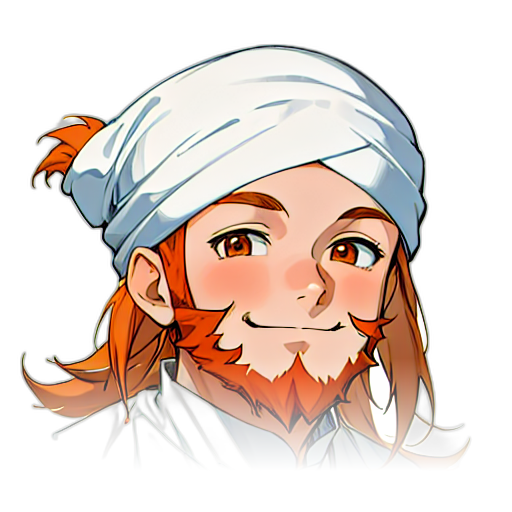
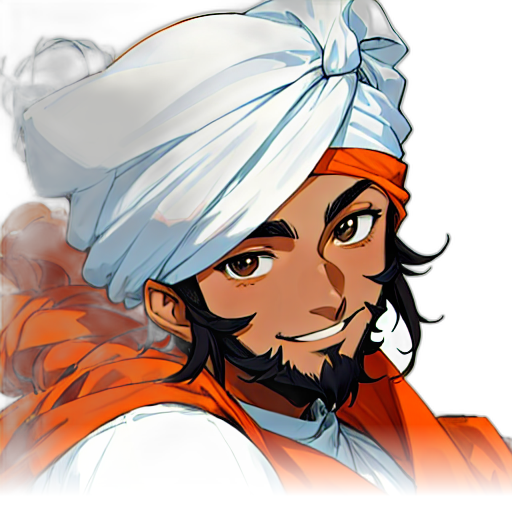
art: Phase 58 Round 3 - portrait 구도 통일 재생성
- BASE_POS에 close-up bust portrait + centered composition 추가
- yuki 줌인 방지: medium length hair, very long hair 네거티브
- lao 남성 강화: 1boy:1.5 + masculine face + female 네거티브
- poco 얼굴 크기 개선: face fills upper frame
- 하단 그라디언트 83~97%로 하향 (얼굴 침범 방지)
- img2img 제거 (색상 번짐 문제)

diff --git a/tools/gen_portraits.py b/tools/gen_portraits.py
@@ -1,38 +1,58 @@
 """
-portrait 6종 일괄 생성 스크립트
+portrait 생성 스크립트 - Phase 58
 SD Forge Counterfeit V3 / 메이지 스타일 통일
+img2img 모드: 미미 구도를 레퍼런스로 사용하여 얼굴 크기/비율 통일
 """
-import requests, json, base64, io, sys
-from PIL import Image
+import requests, base64, io, sys
+from PIL import Image, ImageDraw, ImageChops
 
-SD_API = "http://192.168.219.100:7860/sdapi/v1/txt2img"
-OUT_DIR = "C:/antigravity/kitchen-chaos/assets/portraits"
+SD_TXT2IMG = "http://192.168.219.100:7860/sdapi/v1/txt2img"
+SD_IMG2IMG  = "http://192.168.219.100:7860/sdapi/v1/img2img"
+OUT_DIR     = "C:/antigravity/kitchen-chaos/assets/portraits"
 
-BASE_POS = "(masterpiece, best quality, official art), cute chibi anime style, bust portrait, white background, simple background, soft anime shading, big round eyes, detailed cute face, clean lineart, 2d illustration, smile"
-BASE_NEG = "nsfw, bad quality, worst quality, low quality, blurry, realistic, 3d, photo, dark background, complex background, full body, chibi body, lowres, bad anatomy, bad hands, multiple views"
-# 배경 장식/색상 방지 강화 네거티브
-NO_BG_DECO = "circular frame, circle background, ornamental background, decorative frame, frame border, badge shape, emblem, halo, pattern background, background illustration, background art, gradient circle, colored background, yellow background, orange background, gradient background, background color, shadow on background, any background except pure white"
+# ── 공통 프롬프트 ──
+BASE_POS = (
+    "(masterpiece, best quality, official art), cute chibi anime style, "
+    "(close-up bust portrait:1.2), white background, simple background, "
+    "soft anime shading, big round eyes, detailed cute face, clean lineart, "
+    "2d illustration, smile, centered composition, face and shoulders in frame, "
+    "face occupies upper center of image, looking at viewer"
+)
+BASE_NEG = (
+    "nsfw, bad quality, worst quality, low quality, blurry, realistic, 3d, photo, "
+    "dark background, complex background, full body, chibi body, lowres, "
+    "bad anatomy, bad hands, multiple views, "
+    "extreme close-up, zoomed in face only, face cropped, tilted portrait, off-center"
+)
+NO_BG_DECO = (
+    "circular frame, circle background, ornamental background, decorative frame, "
+    "frame border, badge shape, emblem, halo, pattern background, "
+    "background illustration, background art, gradient circle, colored background, "
+    "yellow background, orange background, gradient background, background color, "
+    "shadow on background, any background except pure white"
+)
 
 CHARACTERS = [
     {
         "id": "mimi",
         "prompt": f"{BASE_POS}, 1girl, black short bob haircut, green chef apron over white dress shirt, small white chef hat, cheerful protagonist chef, green accent colors",
         "negative": BASE_NEG,
+        "txt2img": True,   # 미미는 txt2img (레퍼런스 원본)
     },
     {
         "id": "rin",
-        "prompt": f"{BASE_POS}, 1girl, short spiky red orange hair, red bandana around neck, fiery energetic expression, red and orange color scheme, flame motif chef",
-        "negative": BASE_NEG,
+        "prompt": f"{BASE_POS}, (pure white background:1.5), 1girl, short spiky red orange hair, red bandana around neck, fiery energetic expression, red and orange color scheme, flame motif chef",
+        "negative": f"{BASE_NEG}, {NO_BG_DECO}",
     },
     {
         "id": "yuki",
-        "prompt": f"{BASE_POS}, 1girl, long light blue hair, ice crystal hair ornament, gentle calm expression, pale blue and white color scheme, snowflake motif chef, soft gentle smile",
-        "negative": BASE_NEG,
+        "prompt": f"{BASE_POS}, (pure white background:1.5), 1girl, medium length light blue hair, ice crystal hair ornament, gentle calm expression, pale blue and white color scheme, snowflake motif chef, soft gentle smile",
+        "negative": f"{BASE_NEG}, {NO_BG_DECO}, very long hair, hair below waist",
     },
     {
         "id": "lao",
-        "prompt": f"{BASE_POS}, (pure white background:1.5), 1boy, black hair tied back, orange chinese-style chef jacket, dragon embroidery on collar, calm confident expression, warm orange color scheme",
-        "negative": f"{BASE_NEG}, {NO_BG_DECO}",
+        "prompt": f"{BASE_POS}, (pure white background:1.5), (1boy:1.5), adult male, masculine face, black hair tied back in ponytail, (orange chinese chef jacket:1.3), red collar trim, calm confident expression, warm orange and red color scheme, male chef",
+        "negative": f"{BASE_NEG}, {NO_BG_DECO}, girl, female, woman, feminine",
     },
     {
         "id": "andre",
@@ -51,52 +71,97 @@ CHARACTERS = [
     },
     {
         "id": "poco",
-        "prompt": f"{BASE_POS}, (pure white background:1.5), cute talking cat mascot character, fluffy grey cat with big expressive eyes, wearing a tiny colorful scarf and small vest, charming mischievous smile, cat ears visible",
-        "negative": f"{BASE_NEG}, {NO_BG_DECO}, human, girl, boy, person",
+        "prompt": f"(masterpiece, best quality, official art), cute chibi anime style, (close-up bust portrait:1.2), white background, simple background, soft anime shading, clean lineart, 2d illustration, centered composition, (cat girl:1.3), nekomimi, white fluffy hair, cat ears, big expressive blue eyes, pink scarf, cute small vest, charming mischievous smile, face fills upper frame",
+        "negative": f"{BASE_NEG}, {NO_BG_DECO}, human only, no cat ears, full body",
     },
 ]
 
-def remove_white_bg(img_bytes):
-    """rembg AI 배경 제거 사용."""
-    from rembg import remove as rembg_remove
-    result_bytes = rembg_remove(img_bytes)
-    return Image.open(io.BytesIO(result_bytes)).convert("RGBA")
 
-def generate(char):
-    print(f"[{char['id']}] 생성 중...", flush=True)
+def get_mimi_ref_b64():
+    """미미 포트레이트를 흰 배경으로 합성 후 base64 반환 (img2img 레퍼런스용)"""
+    mimi = Image.open(f"{OUT_DIR}/portrait_mimi.png").convert("RGBA")
+    bg = Image.new("RGBA", mimi.size, (255, 255, 255, 255))
+    bg.paste(mimi, mask=mimi.split()[3])
+    buf = io.BytesIO()
+    bg.convert("RGB").save(buf, "PNG")
+    return base64.b64encode(buf.getvalue()).decode()
+
+
+def remove_bg(img_bytes):
+    """rembg AI 배경 제거"""
+    from rembg import remove as rembg_remove
+    result = rembg_remove(img_bytes)
+    return Image.open(io.BytesIO(result)).convert("RGBA")
+
+
+def apply_bottom_fade(img_rgba, fade_start=0.83, fade_end=0.97):
+    """하단 그라디언트 페이드 - 얼굴 아래 어깨/가슴 영역만 페이드"""
+    w, h = img_rgba.size
+    r, g, b, a = img_rgba.split()
+
+    mask = Image.new("L", (w, h), 255)
+    draw = ImageDraw.Draw(mask)
+    y_start = int(h * fade_start)
+    y_end   = int(h * fade_end)
+    for y in range(y_start, h):
+        val = 0 if y >= y_end else int(255 * (1.0 - (y - y_start) / (y_end - y_start)))
+        draw.line([(0, y), (w - 1, y)], fill=val)
+
+    combined = ImageChops.multiply(a, mask)
+    img_rgba.putalpha(combined)
+    return img_rgba
+
+
+def generate(char, mimi_ref_b64=None):
+    cid = char["id"]
+    print(f"[{cid}] 생성 중...", flush=True)
+
+    use_txt2img = char.get("txt2img", False) or mimi_ref_b64 is None
+
+    # 모든 캐릭터 txt2img (img2img는 색상 번짐 문제로 제외)
     payload = {
         "prompt": char["prompt"],
         "negative_prompt": char["negative"],
-        "width": 512,
-        "height": 512,
-        "steps": 28,
-        "cfg_scale": 7.5,
+        "width": 512, "height": 512,
+        "steps": 28, "cfg_scale": 7.5,
         "sampler_name": "DPM++ 2M Karras",
-        "seed": -1,
-        "batch_size": 1,
+        "seed": -1, "batch_size": 1,
         "override_settings": {
             "sd_model_checkpoint": "counterfeitV30_v30.safetensors [cbfba64e66]"
         }
     }
-    resp = requests.post(SD_API, json=payload, timeout=120)
-    resp.raise_for_status()
-    data = resp.json()
-    img_b64 = data["images"][0]
-    img_bytes = base64.b64decode(img_b64)
+    url = SD_TXT2IMG
 
-    # 배경 제거
-    result = remove_white_bg(img_bytes)
-    out_path = f"{OUT_DIR}/portrait_{char['id']}.png"
+    resp = requests.post(url, json=payload, timeout=120)
+    resp.raise_for_status()
+    img_bytes = base64.b64decode(resp.json()["images"][0])
+
+    # 배경 제거 + 하단 페이드
+    result = remove_bg(img_bytes)
+    result = apply_bottom_fade(result)
+
+    out_path = f"{OUT_DIR}/portrait_{cid}.png"
     result.save(out_path, "PNG")
-    print(f"[{char['id']}] 저장 완료: {out_path}", flush=True)
+    print(f"[{cid}] 저장: {out_path}", flush=True)
     return out_path
+
 
 if __name__ == "__main__":
     target = sys.argv[1] if len(sys.argv) > 1 else "all"
     chars = CHARACTERS if target == "all" else [c for c in CHARACTERS if c["id"] == target]
+
+    # 미미 레퍼런스 로드 (미미 자신은 txt2img라 불필요하지만 다른 캐릭터에 사용)
+    mimi_ref = None
+    if any(not c.get("txt2img") for c in chars):
+        try:
+            mimi_ref = get_mimi_ref_b64()
+            print("미미 레퍼런스 로드 완료", flush=True)
+        except Exception as e:
+            print(f"미미 레퍼런스 로드 실패 ({e}) → txt2img 모드로 진행", flush=True)
+
     for char in chars:
         try:
-            generate(char)
+            generate(char, mimi_ref)
         except Exception as e:
             print(f"[{char['id']}] 오류: {e}", flush=True)
     print("완료")
